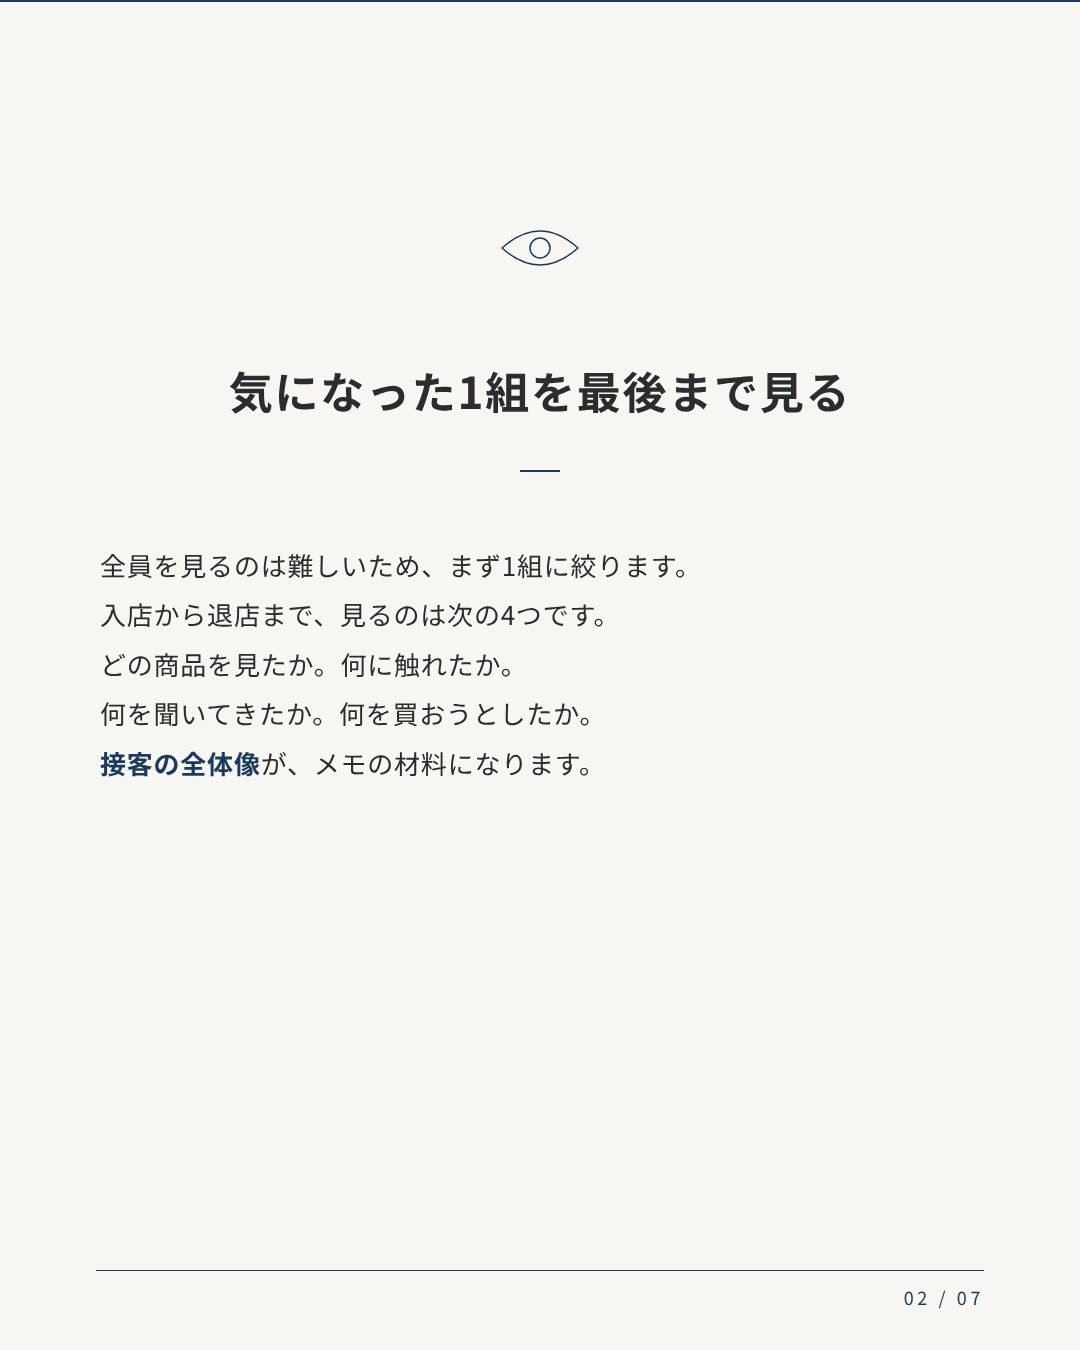
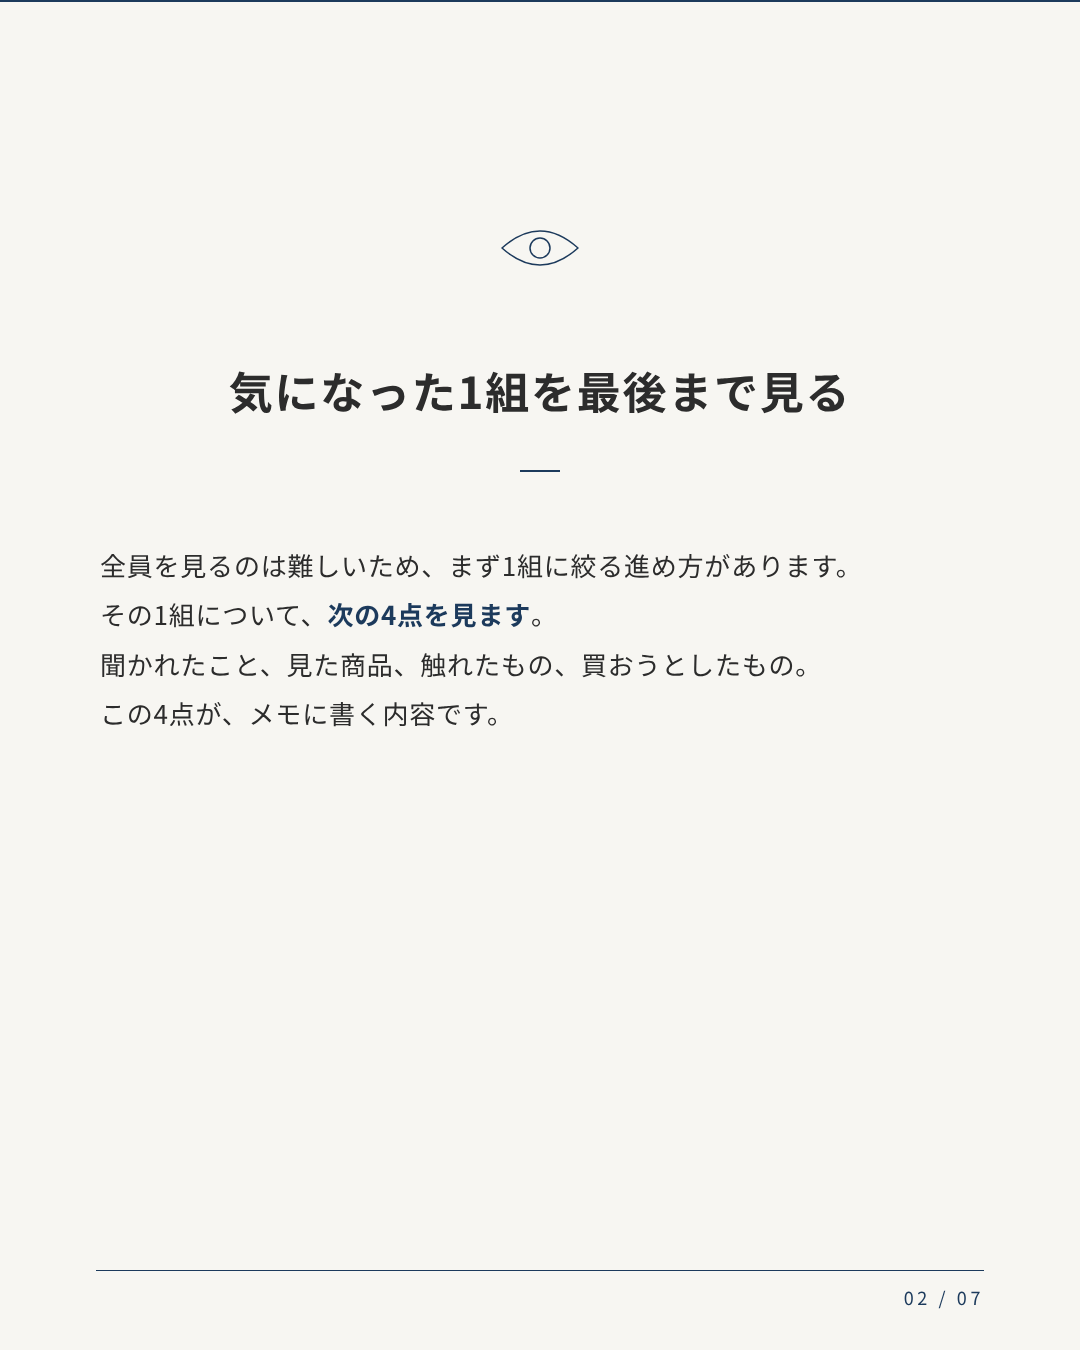
投稿の一覧を更新（11件）

diff --git a/index.html b/index.html
@@ -32,19 +32,18 @@ pre { white-space: pre-wrap; font: inherit; line-height: 1.7; }
 <button type="button" class="sub" onclick="copyCaption(this)">キャプションをコピー</button>
 <div class="status"></div>
 <details><summary>キャプションを見る</summary><pre>淡路島で店舗を営む方へ。
-お客様全員に接客することは、できません。接客のあとのメモを声かけに活かす5つの手順をまとめました。
+お客様全員に接客するのは、難しいものです。接客のあとのメモを声かけに活かす5つの手順を整理しました。
 
-1. 気になった1組を最後まで見る：見るのは、商品、触れたもの、聞かれたこと、買おうとしたもの
-2. 接客が終わってすぐメモする：見たことを短く書く
-3. 似た事例を集めて傾向を見る：来た、来なかった、なぜかを書く
-4. 声をかける条件を前もって決める：メモで同じ場面が続いたら声をかける
-5. 反応のよいお客様から広げる：声をかけにくい方には売り場づくりで会話のきっかけを作る
+1. 気になった1組を最後まで見る：全員は難しいので、まず1組に絞る進め方。聞かれたこと、見た商品、触れたもの、買おうとしたものを見る
+2. 接客が終わってすぐメモする：その4点を、接客後すぐに書く
+3. 似た事例を集めて傾向を見る：何件かたまったら見返し、どうなったか、そしてなぜかを書き足す
+4. 声をかける条件を前もって決める：メモから条件を決める
+5. 声をかけやすいお客様から始める：声をかけにくい方には、売り場づくりやPOPで会話のきっかけを作る
 
-2つ目は、心理学者エビングハウスの研究。意味のない音の並びを覚えた1人の結果で、忘れる速さは、はじめが速かったという結果を参考にしています。
-4つ目は、心理学者ゴルヴィツァーの、「この状況なら、この行動」と前もって決める計画（実行意図）です。
+「接客が終わってすぐメモする」には、心理学者エビングハウスの忘れ方の研究（意味のない音の並びを覚えた1人の結果）を紹介しています。「声をかける条件を前もって決める」には、心理学者ゴルヴィツァーが多くの研究をまとめて論じた、前もって決める計画（実行意図）を紹介しています。どちらも接客を調べた研究ではなく、接客への当てはめは私たちの提案です。
 
-今日の一歩は、今日の接客を一件、終わってすぐ、メモに書くことです。
-保存して見返してください。自分の店に合う声をかける条件に迷うときは、DMでご相談ください。
+今日の一歩は、接客が終わってすぐ、その1件をメモに書くことです。
+保存して見返してください。メモの書き方や声をかける条件に迷ったら、DMでご相談ください。
 
 #淡路島 #店舗経営 #接客 #声かけ #心理学 #小規模店舗</pre></details>
 </article>
